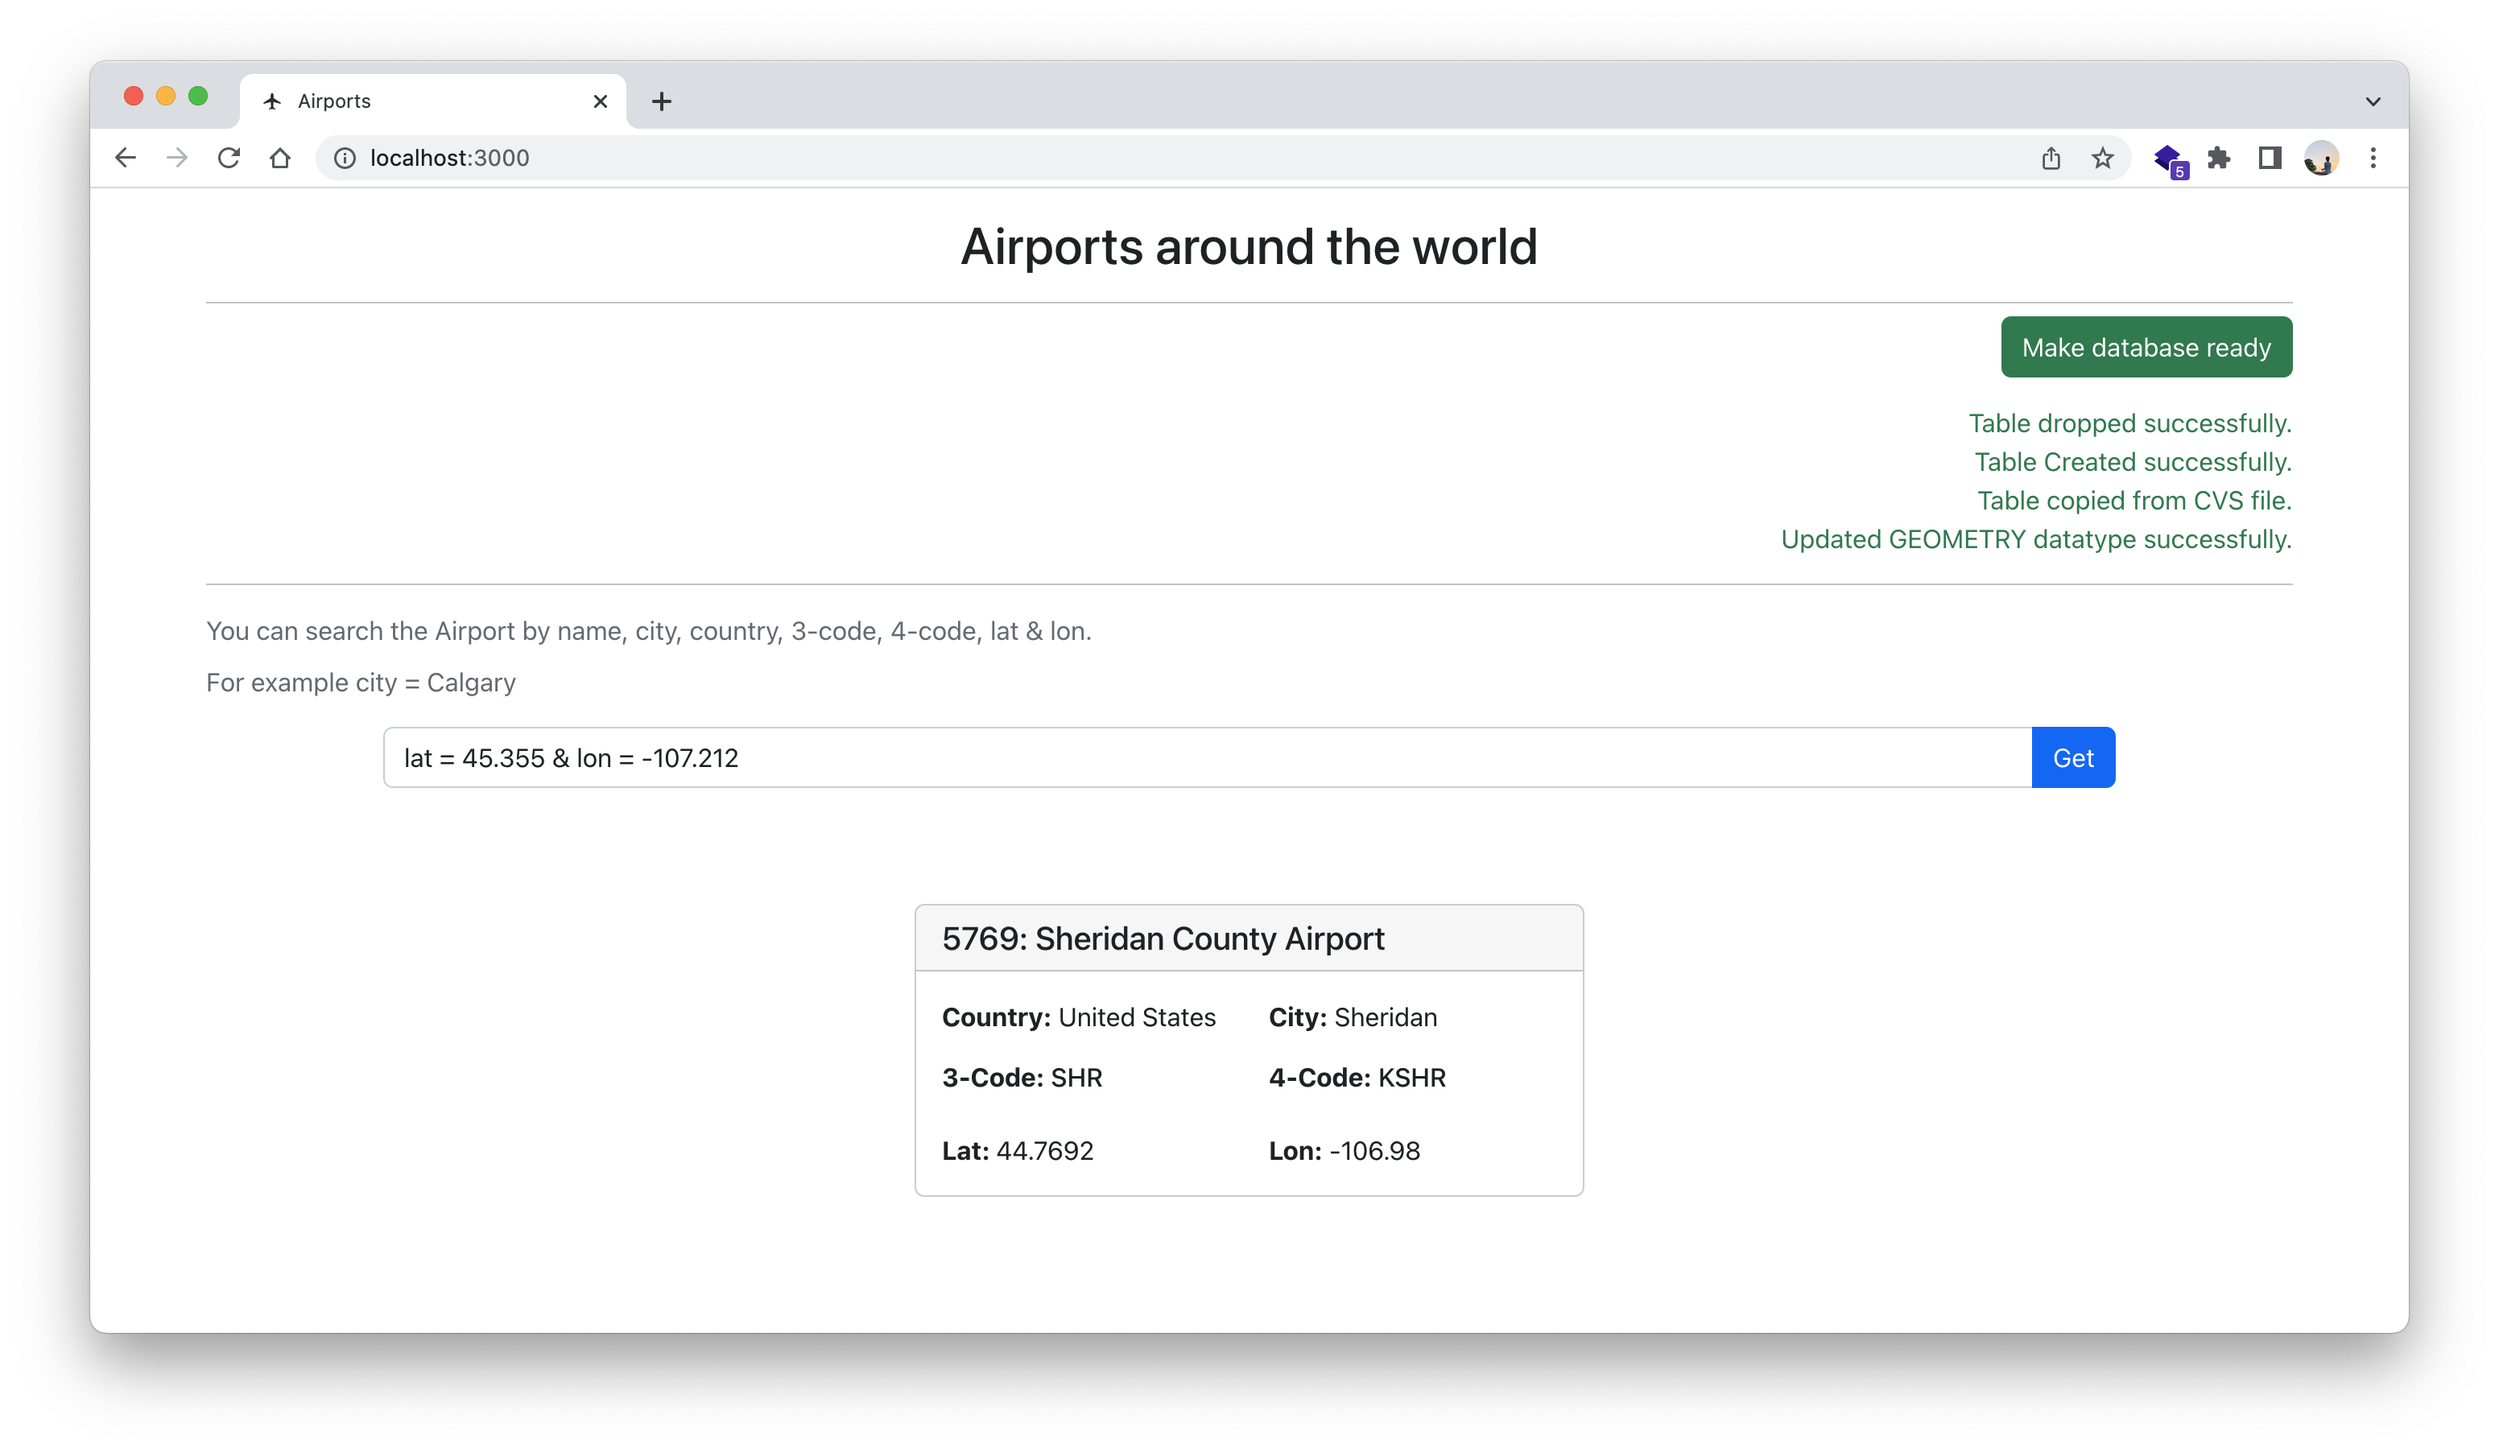
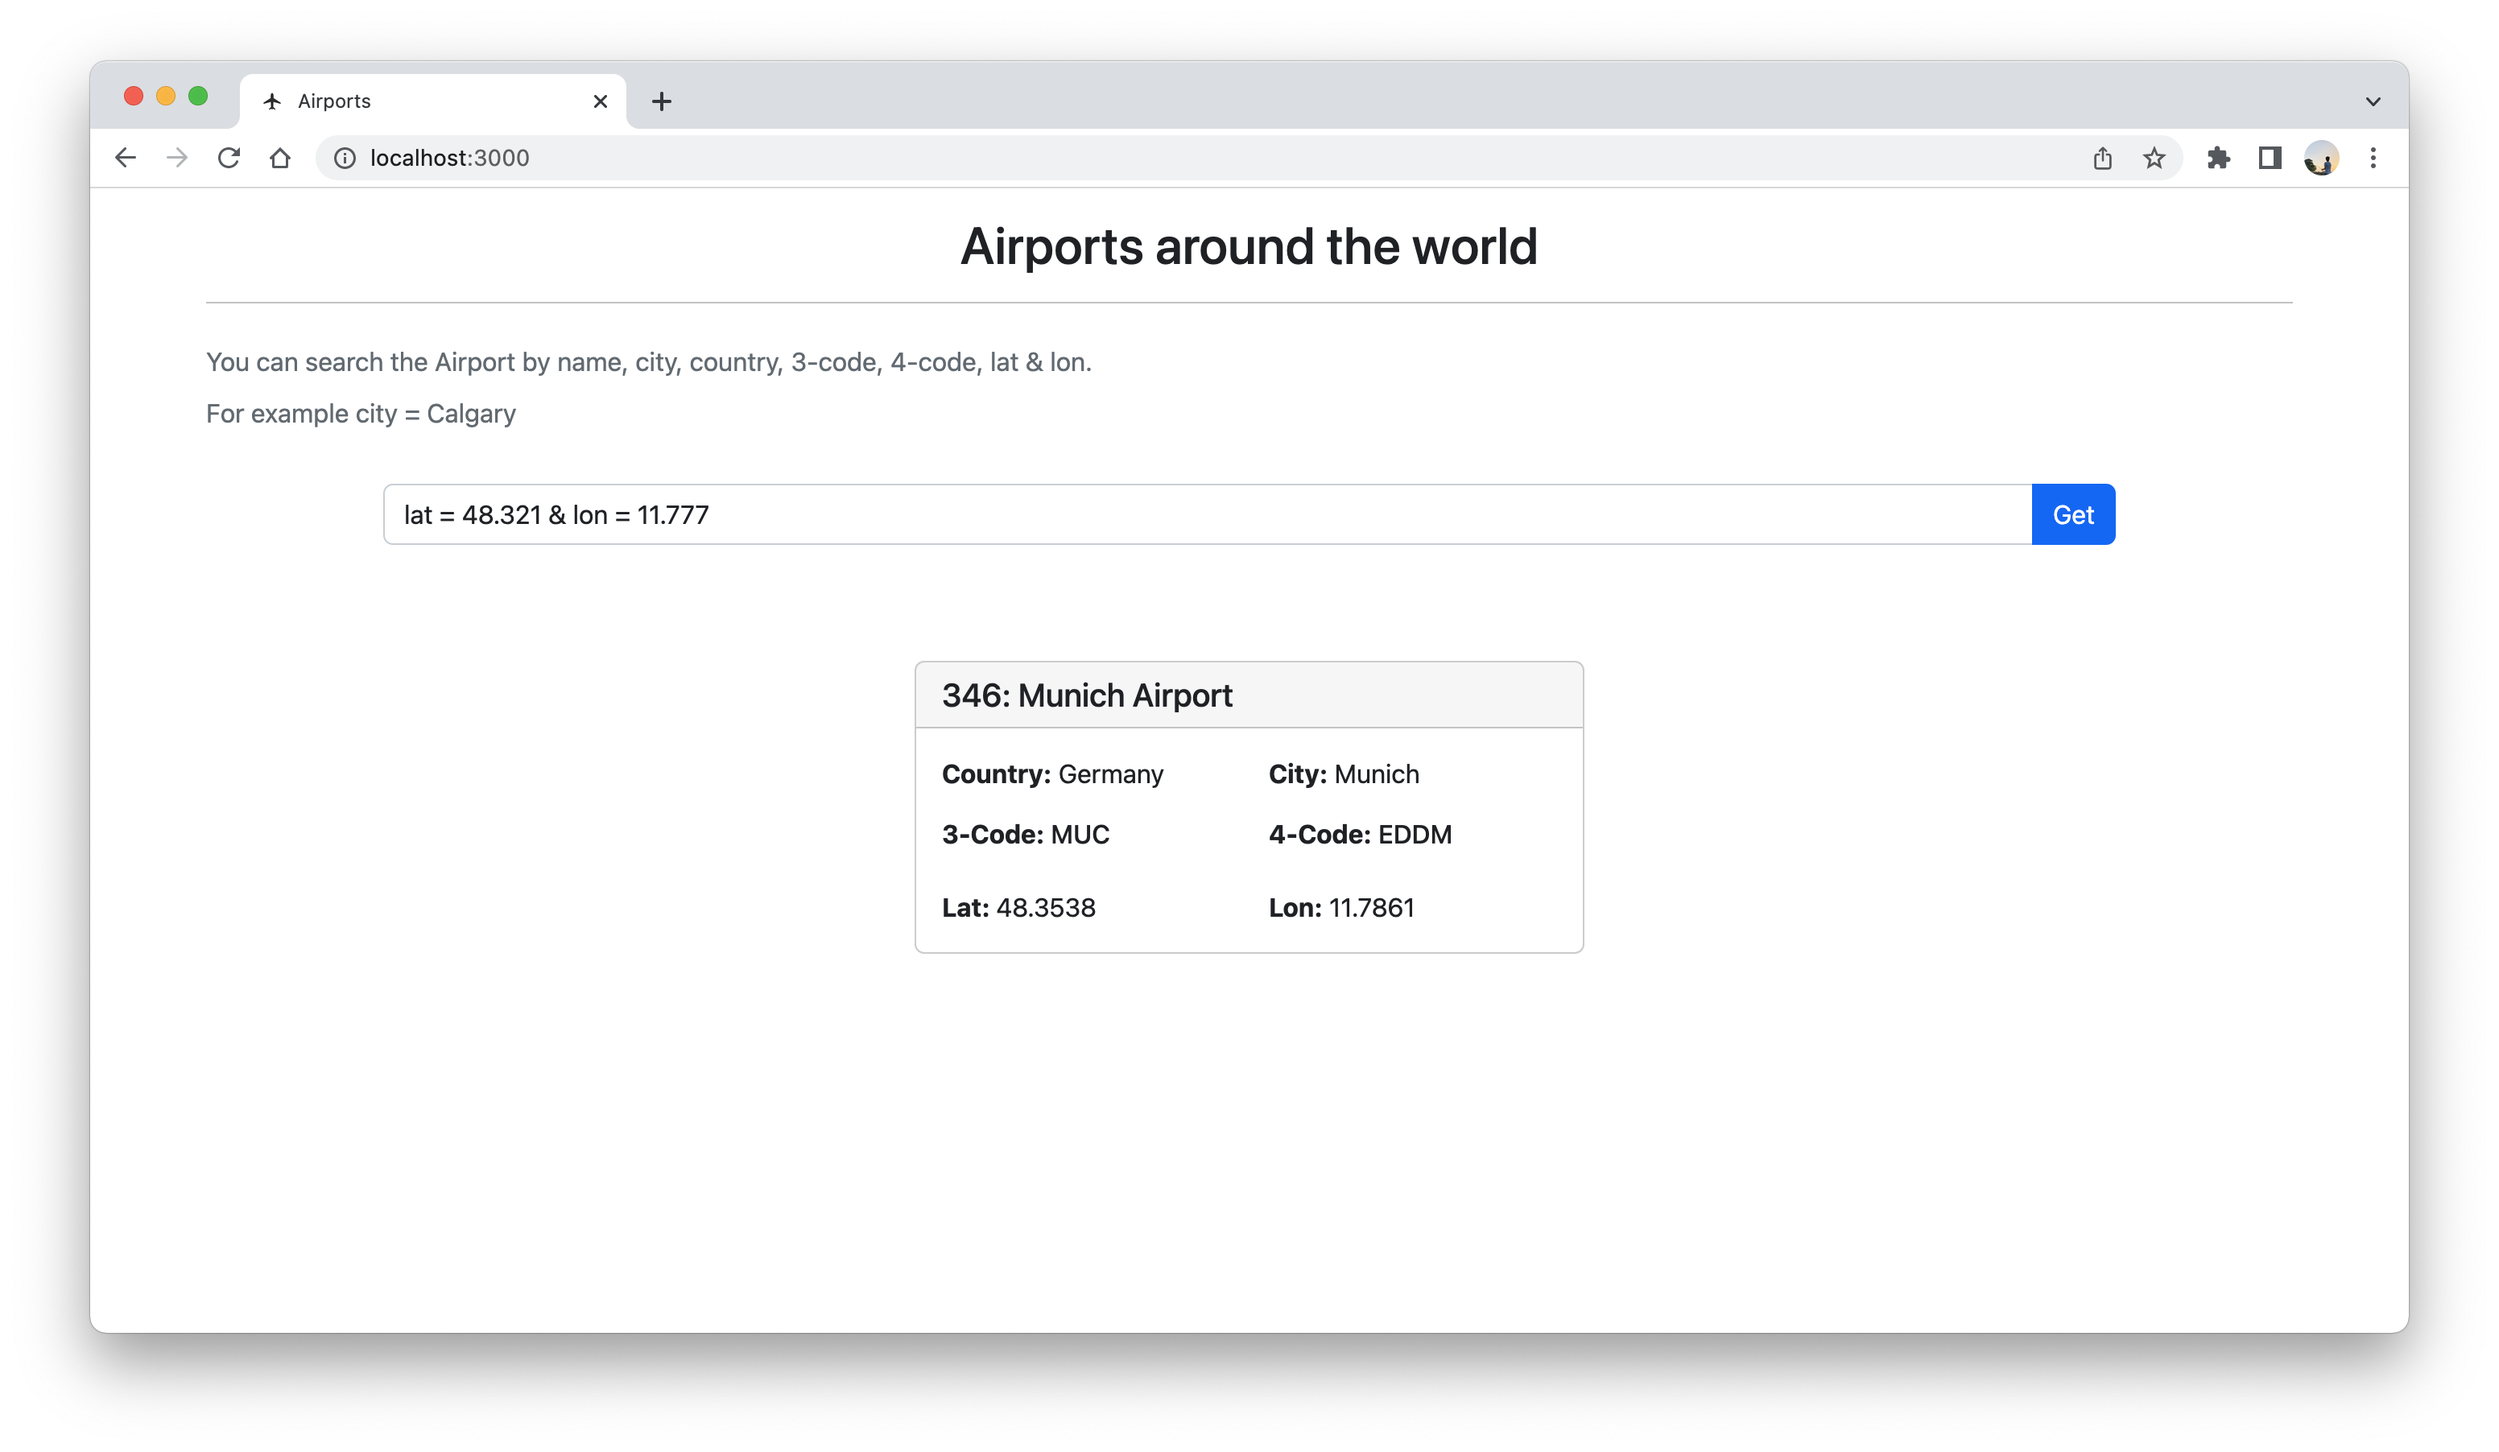
cleaned up code

diff --git a/Assignments/Project01/frontend/src/App.js b/Assignments/Project01/frontend/src/App.js
@@ -1,5 +1,4 @@
 import { useState, useEffect } from "react";
-import "./App.css";
 import {
   Button,
   Row,
@@ -9,31 +8,21 @@ import {
   InputGroup,
   Spinner,
 } from "react-bootstrap";
-
+//File imports
 import ErrorModal from "./components/ErrorModal";
 import AirportCard from "./components/AirportCard";
 
-function App() {
+export default function App() {
   useEffect(() => {
     document.title = "Airports";
   });
   //New One
-  const [btnColor, setBtnColor] = useState("danger");
-  const [isReady, setIsReady] = useState();
   const [query, setQuery] = useState();
   const [data, setData] = useState();
   const [error, setError] = useState();
   const [show, setShow] = useState();
   const [isLoading, setIsLoading] = useState(false);
 
-  const makeDatabaseReady = async () => {
-    const res = await fetch("http://localhost:8000/make-database-ready", {
-      mode: "cors",
-    });
-    const data = await res.json();
-    setIsReady(data);
-    setBtnColor("success");
-  };
   const handleShow = () => {
     setShow(false);
   };
@@ -51,6 +40,7 @@ function App() {
     } else setData(data);
     setIsLoading(false);
   };
+
   return (
     <>
       <Container className="mb-5 mt-3">
@@ -60,28 +50,7 @@ function App() {
             Airports around the world
           </Col>
         </Row>
-        <hr className="mb-2" />
-        <Row className="justify-content-end mb-3">
-          <Col className="text-end mb-3" sm={6} md={4}>
-            <Button onClick={makeDatabaseReady} variant={btnColor}>
-              Make database ready
-            </Button>
-          </Col>
-          {isReady &&
-            isReady.map((line) => (
-              <Col
-                className="text-success text-end"
-                md={12}
-                lg={12}
-                sm={12}
-                key={line}
-              >
-                {line}
-              </Col>
-            ))}
-        </Row>
-        <hr />
-
+        <hr className="mb-4" />
         <Row>
           <Col>
             <Form.Label htmlFor="basic-url" className="text-muted">
@@ -94,7 +63,7 @@ function App() {
             </Form.Label>
           </Col>
         </Row>
-        <Row className="mt-2 justify-content-center">
+        <Row className="mt-4 justify-content-center">
           <Col md={10}>
             <InputGroup>
               <Form.Control
@@ -127,5 +96,3 @@ function App() {
     </>
   );
 }
-
-export default App;

diff --git a/Assignments/Project01/index.js b/Assignments/Project01/index.js
@@ -47,31 +47,22 @@ const sql = {
 };
 
 //API
-//Make Database Ready
-app.get("/make-database-ready", (req, res) => {
-  let ready = [];
-  client.query(sql.drop_table, (err, resp) => {
-    if (!err) ready.push("Table dropped successfully.");
-    else console.log(err);
-    client.end;
-  });
-  client.query(sql.create_table, (err, resp) => {
-    if (!err) {
-      ready.push("Table Created successfully.");
-    } else console.log(err);
-    client.end;
-  });
-  client.query(sql.copy_csv, (err, resp) => {
-    if (!err) ready.push("Table copied from CVS file.");
-    else console.log(err);
-    client.end;
-  });
-  client.query(sql.update_geom, (err, resp) => {
-    if (!err) {
-      ready.push("Updated GEOMETRY datatype successfully.");
-      res.send(ready);
-    } else console.log(err);
-  });
+//Making Database Ready
+client.query(sql.drop_table, (err, res) => {
+  if (err) console.log(err);
+  client.end;
+});
+client.query(sql.create_table, (err, res) => {
+  if (err) console.log(err);
+  client.end;
+});
+client.query(sql.copy_csv, (err, res) => {
+  if (err) console.log(err);
+  client.end;
+});
+client.query(sql.update_geom, (err, res) => {
+  if (err) console.log(err);
+  client.end;
 });
 
 //Queries

diff --git a/Assignments/Project01/frontend/src/index.js b/Assignments/Project01/frontend/src/index.js
@@ -1,6 +1,6 @@
 import React from "react";
 import ReactDOM from "react-dom/client";
-import "./index.css";
+
 import App from "./App";
 import "bootstrap/dist/css/bootstrap.min.css";
 
